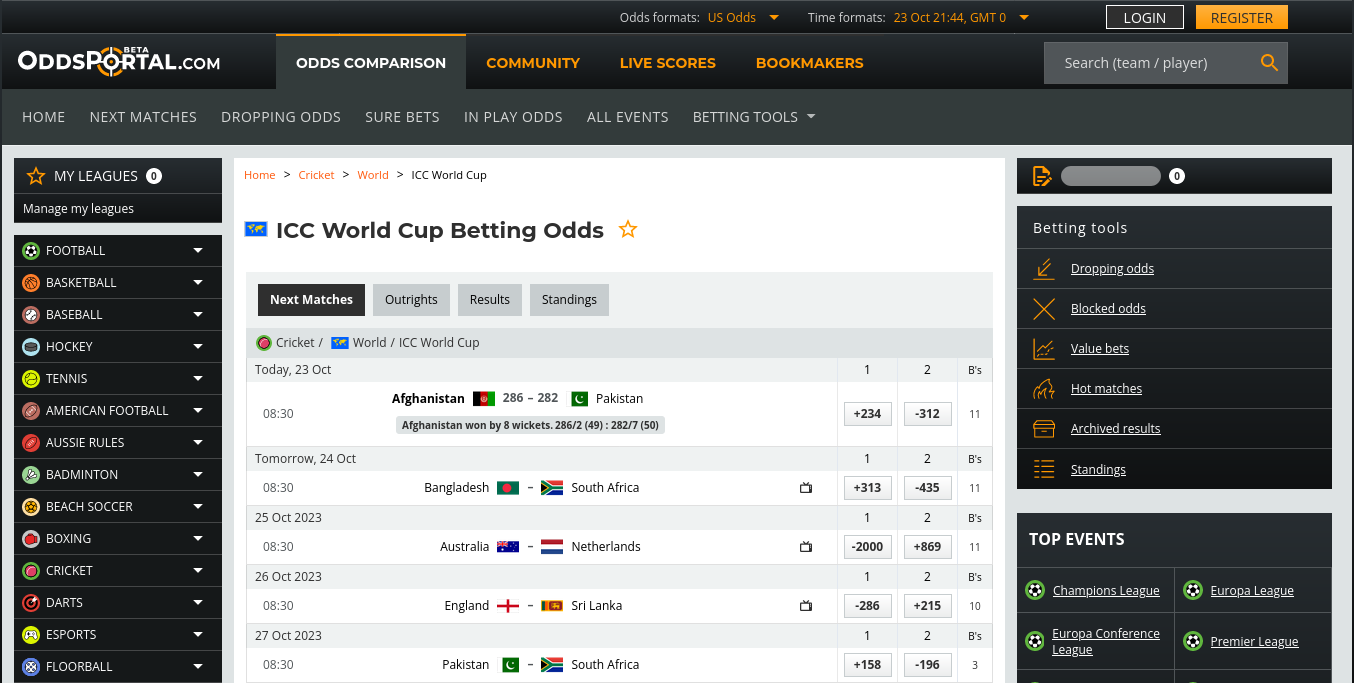
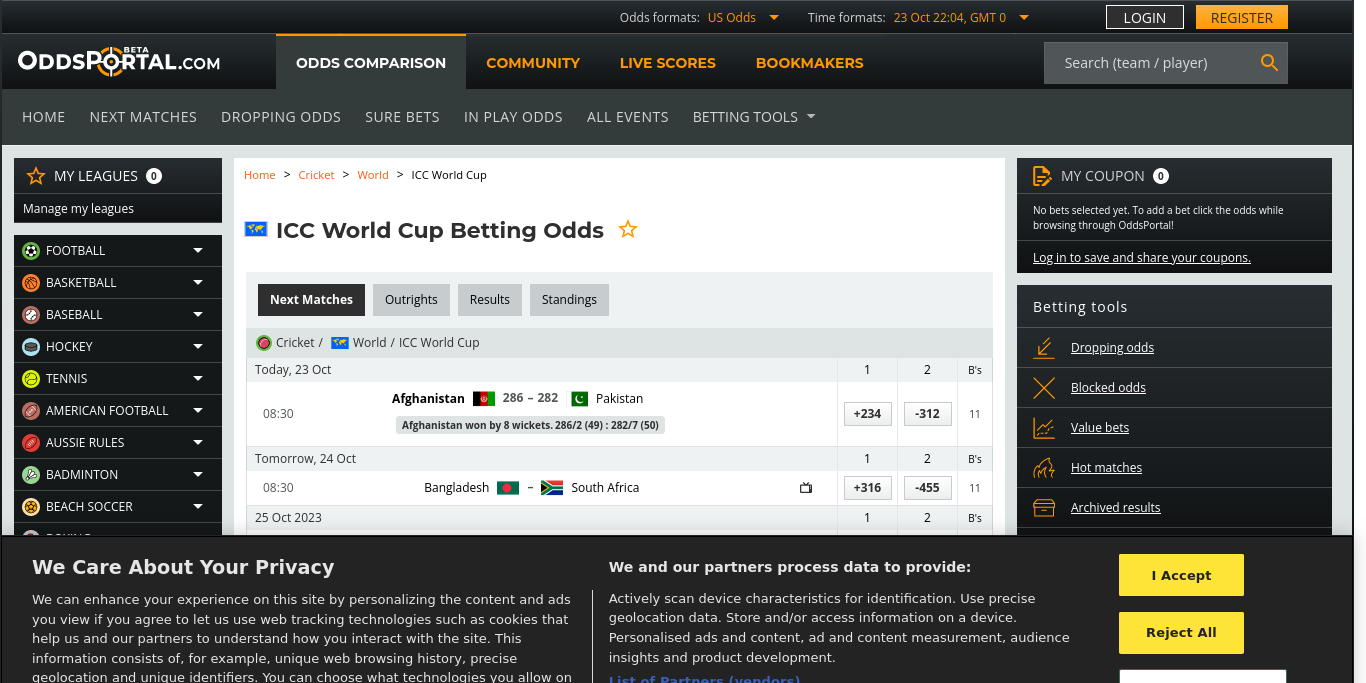
Update Data (Cron) Mon Oct 23 22:04:56 UTC 2023

Changed region(s): [[0.0, 0.6149, 1.0, 1.0], [0.7379, 0.246, 0.9839, 0.5842]]

diff --git a/src/nonview/data/TEAM1_ID_TO_TEAM2_ID_TO_ODDS_PAIR.js b/src/nonview/data/TEAM1_ID_TO_TEAM2_ID_TO_ODDS_PAIR.js
@@ -1,6 +1,6 @@
 // Auto Generated by UpdateTeam1IDToTeam2IDToOddsPair
 // https://www.oddsportal.com/cricket/world/icc-world-cup/
-// 2023-10-24 03:14:10 +0000
+// 2023-10-24 03:34:49 +0000
 
 import { TEAM } from "../core/Team.js";
 
@@ -9,7 +9,7 @@ export const TEAM1_ID_TO_TEAM2_ID_TO_ODDS_PAIR = {
     [TEAM.AFG.id]: [1.32, 3.34],
   },
   [TEAM.ZAF.id]: {
-    [TEAM.BGD.id]: [1.23, 4.13],
+    [TEAM.BGD.id]: [1.22, 4.16],
     [TEAM.PAK.id]: [1.51, 2.58],
   },
   [TEAM.AUS.id]: {

diff --git a/src/nonview/constants/VERSION.js b/src/nonview/constants/VERSION.js
@@ -1,4 +1,4 @@
 // Auto-generated by javascript_version.py
-export const VERSION_UT = 1698097459;
+export const VERSION_UT = 1698098696;
 export const VERSION_DATETIME = new Date(VERSION_UT * 1_000);
 export const LAST_COMMIT_MESSAGE = "Updated 📊Data";

diff --git a/src/nonview/data/TEAM_ID_TO_P_WINNER.js b/src/nonview/data/TEAM_ID_TO_P_WINNER.js
@@ -1,6 +1,6 @@
 // Auto Generated by UpdateTeamIDToPWinner
 // https://www.oddsportal.com/cricket/world/icc-world-cup/outrights/
-// 2023-10-24 03:14:19 +0000
+// 2023-10-24 03:34:56 +0000
 
 export const TEAM_ID_TO_P_WINNER = {
   IND: 0.440645, // 44%

diff --git a/src/nonview/data/ODI_ID_TO_WINNER.js b/src/nonview/data/ODI_ID_TO_WINNER.js
@@ -1,6 +1,6 @@
 // Auto Generated by UpdateODIIDToWinner
 // https://www.cricbuzz.com/cricket-series/6732/icc-cricket-world-cup-2023/matches
-// 2023-10-24 03:13:48 +0000
+// 2023-10-24 03:34:32 +0000
 
 import { TEAM } from "../core/Team.js";
 

diff --git a/src/nonview/data/POINTS_TABLE.js b/src/nonview/data/POINTS_TABLE.js
@@ -1,6 +1,6 @@
 // Auto Generated by UpdatePointsTable
 // https://www.cricketworldcup.com/standings
-// 2023-10-24 03:13:59 +0000
+// 2023-10-24 03:34:41 +0000
 
 import { TEAM } from "../core/Team.js";
 
